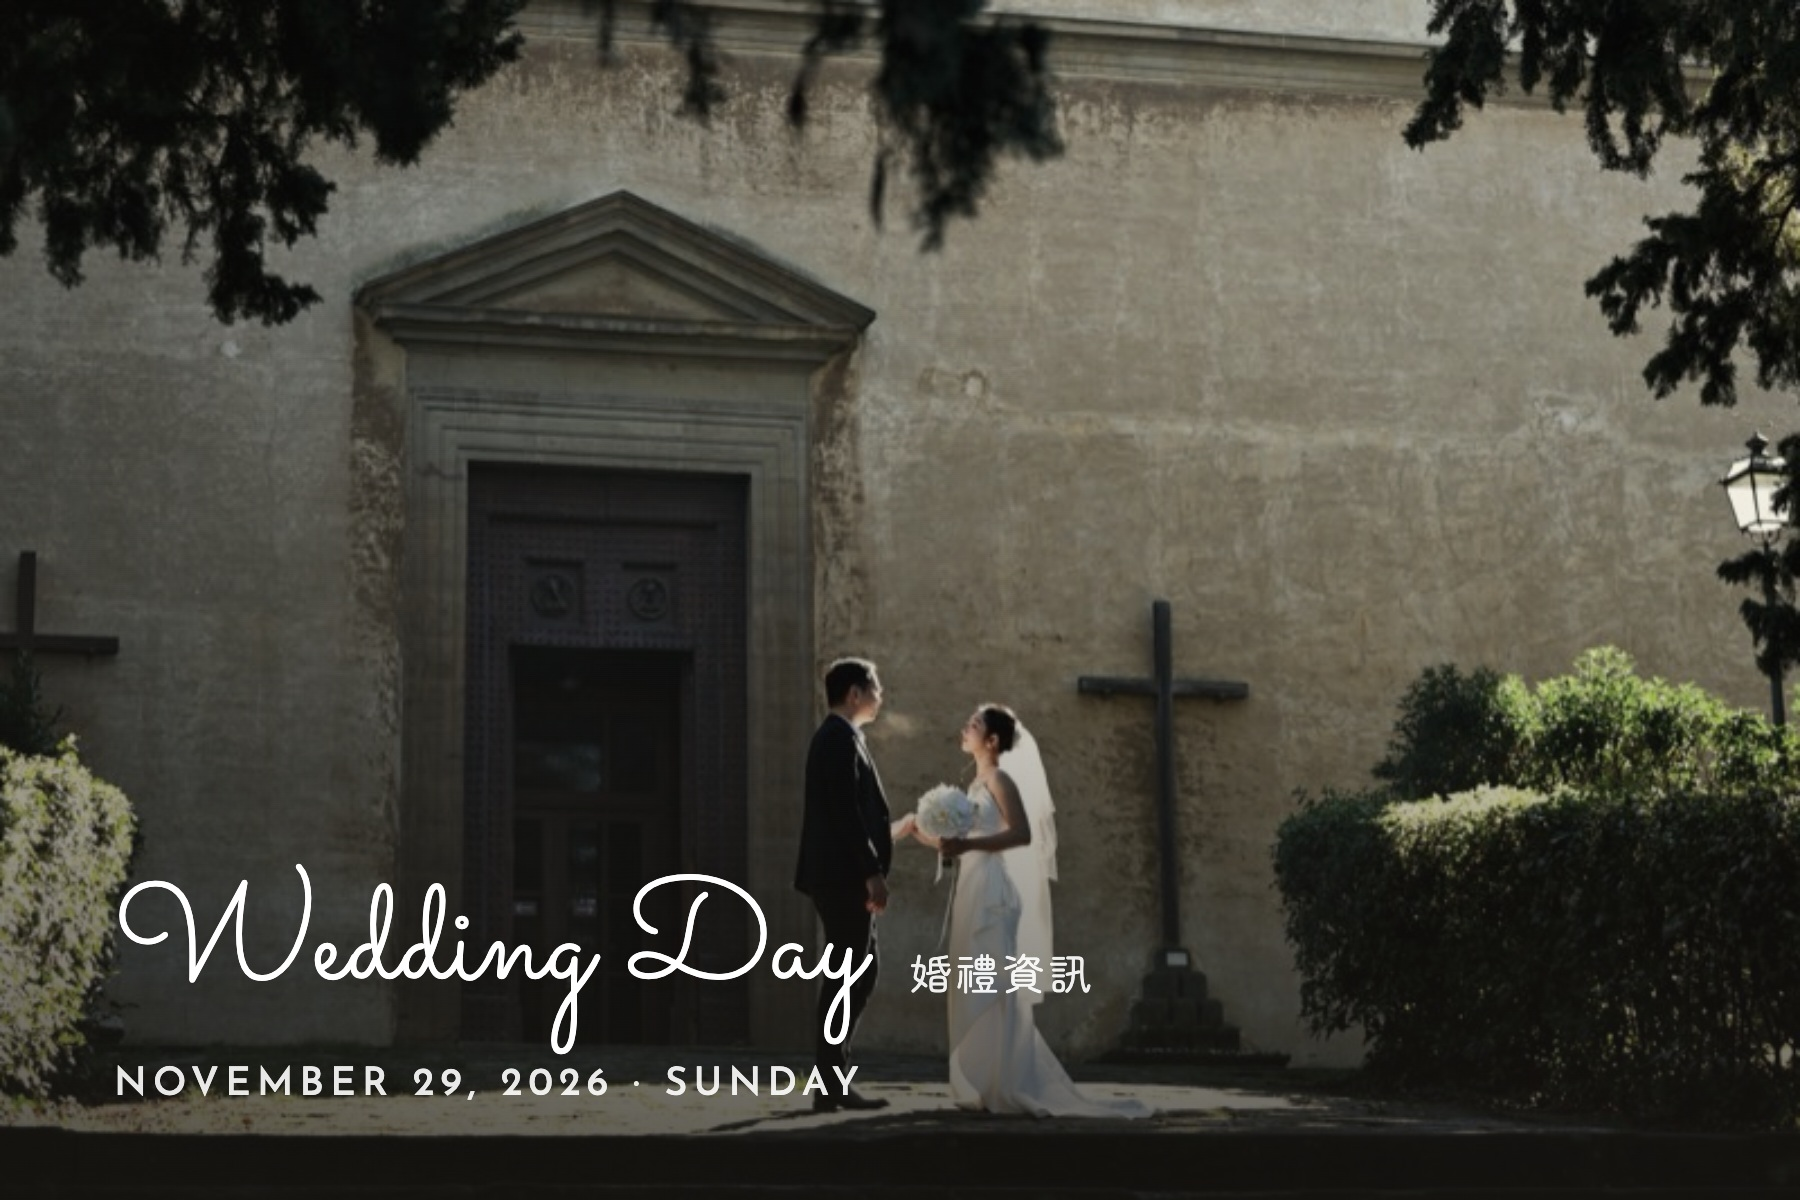
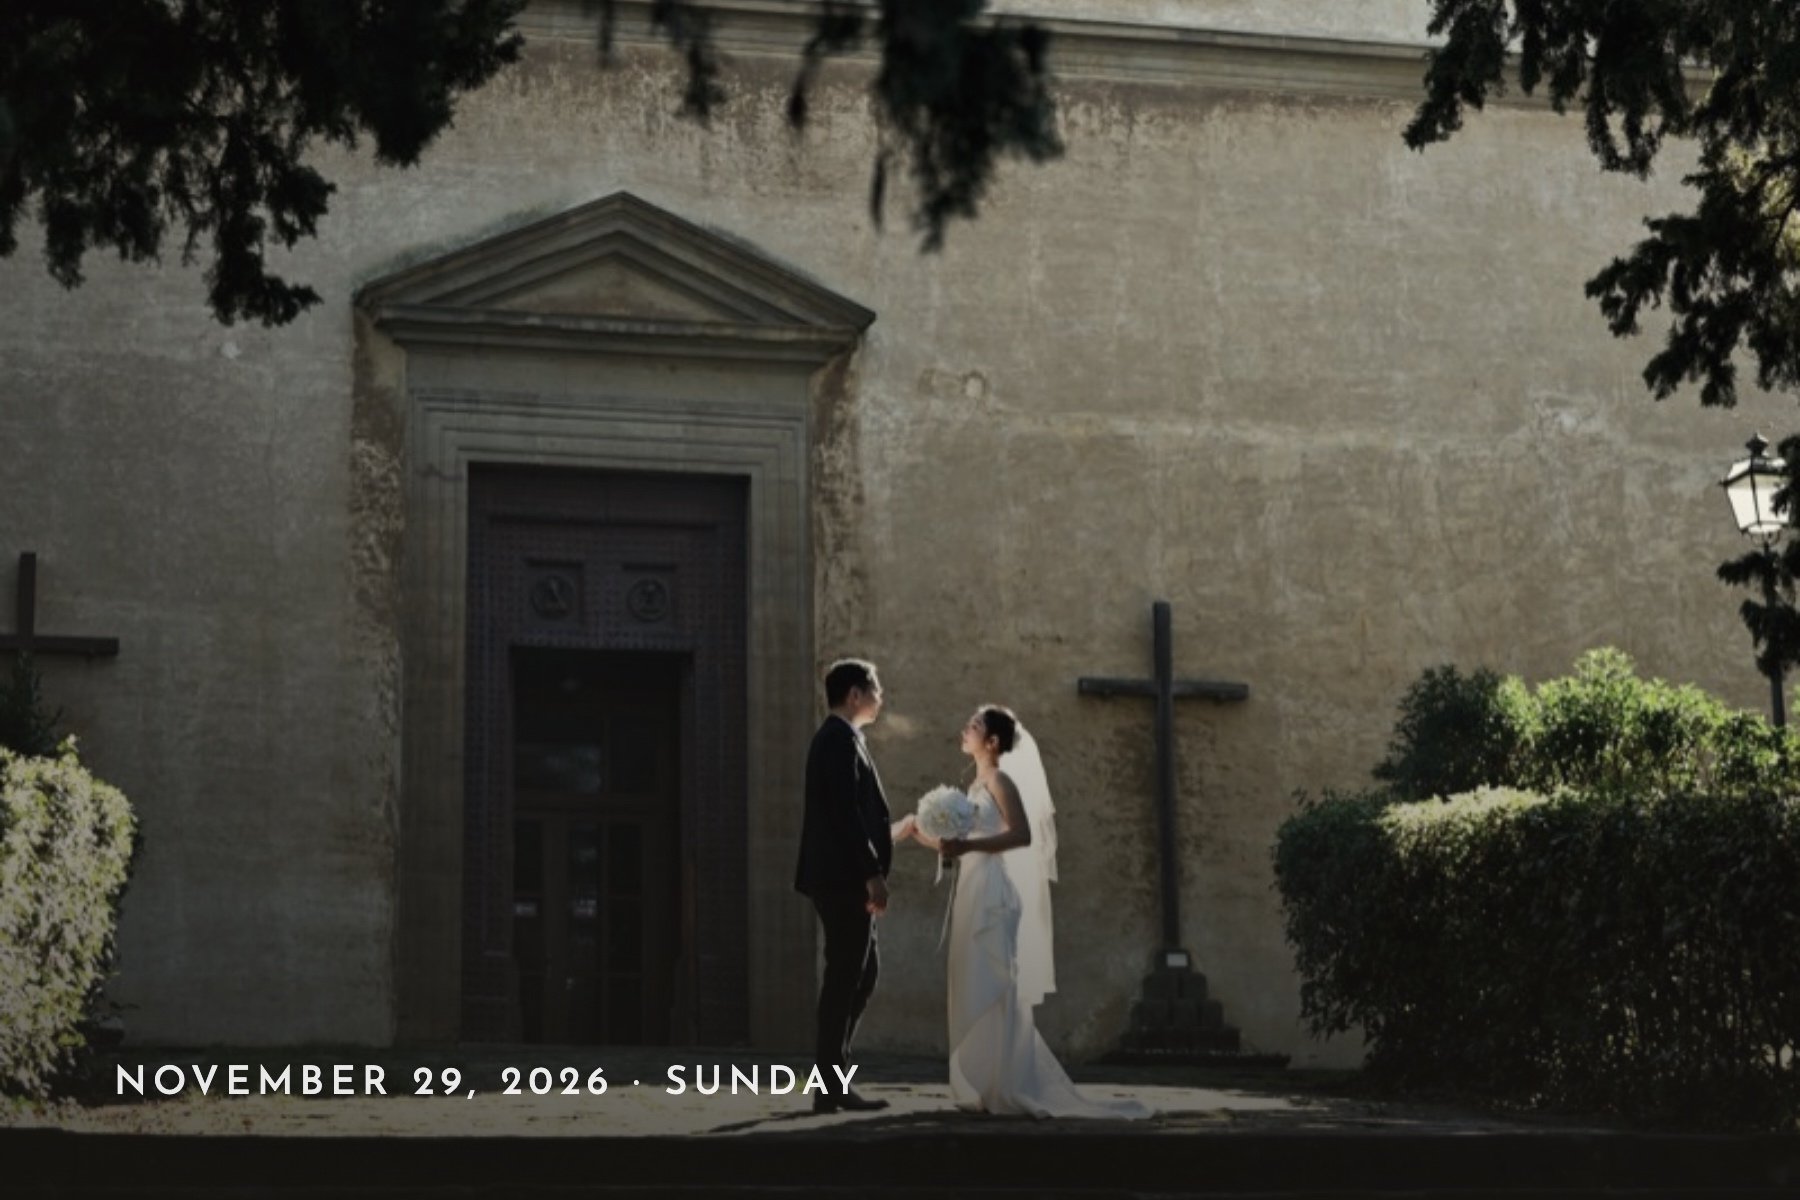
Refine wedding reminder email

Changed region(s): [[0.0622, 0.7092, 0.6222, 0.925], [0.9644, 0.4317, 0.9956, 0.4625], [0.9644, 0.37, 0.9956, 0.4008]]

diff --git a/output/email-reminder/gmail-reminder-preview.html b/output/email-reminder/gmail-reminder-preview.html
@@ -1,0 +1,1 @@
+<!doctype html><html lang="zh-Hant"><head><meta charset="UTF-8"><meta http-equiv="Content-Type" content="text/html; charset=UTF-8"><meta name="viewport" content="width=device-width,initial-scale=1.0"></head><body style="margin:0;padding:0;background:#f4f4f2;"><div style="display:none;max-height:0;overflow:hidden;opacity:0;color:transparent;">11 月 29 日婚禮桌次、時間與抵達提醒</div><div lang="zh-Hant" style="margin:0;padding:40px 16px;background:#f4f4f2;color:#37352f;font-family:Arial,'PingFang TC','Noto Sans TC',sans-serif;"><table role="presentation" width="100%" cellspacing="0" cellpadding="0" border="0" style="width:100%;border-collapse:collapse;"><tr><td align="center"><table role="presentation" width="100%" cellspacing="0" cellpadding="0" border="0" style="width:100%;max-width:520px;border:1px solid #e6e3dd;border-collapse:separate;background:#ffffff;"><tr><td style="padding:54px 48px 50px;"><div style="margin:0 0 8px;text-align:center;"><img src="./email-monogram.png" width="110" alt="M·D" style="display:inline-block;width:110px;max-width:100%;height:auto;border:0;"></div><div style="margin:0 0 6px;text-align:center;font-family:'Avenir Next',Avenir,'Helvetica Neue',Arial,sans-serif;font-size:13px;font-weight:600;line-height:1.5;letter-spacing:.14em;text-transform:uppercase;color:#8f7049;">Wedding Day Reminder</div><div style="margin:0 0 46px;text-align:center;font-family:'PingFang TC','Noto Sans TC',sans-serif;font-size:12px;font-weight:400;line-height:1.6;letter-spacing:.08em;color:#716a62;">婚禮行前提醒</div><p style="margin:0 0 24px;font-family:'Avenir Next',Avenir,'Helvetica Neue',Arial,sans-serif;font-size:16px;font-weight:400;line-height:1.8;color:#56514b;">Hi 林憲銘,</p><p style="margin:0 0 42px;font-family:'PingFang TC','Noto Sans TC',sans-serif;font-size:15px;font-weight:400;line-height:1.9;color:#37352f;">距離婚禮只剩 4 天了，<br>婚禮就在這週日，11 月 29 日。<br>很期待見到你，<br>和你一起分享這份喜悅 &#129293;</p><div style="margin:0 0 40px;padding:23px 16px 22px;border-top:1px solid #d8d2c8;border-bottom:1px solid #d8d2c8;text-align:center;"><div style="margin:0 0 8px;font-family:'Avenir Next',Avenir,'Helvetica Neue',Arial,sans-serif;font-size:11px;font-weight:600;line-height:1.5;letter-spacing:.18em;color:#8f7049;">YOUR TABLE</div><div style="font-family:'PingFang TC','Noto Sans TC',sans-serif;font-size:29px;font-weight:500;line-height:1.35;color:#37352f;">第 8 桌</div><div style="margin:7px 0 0;font-size:13px;line-height:1.6;color:#716a62;">2 位賓客</div></div><div style="margin:0 0 38px;"><img src="./02-wedding-day-photo-card.jpg" width="422" alt="Minchi and David on their wedding day" style="display:block;width:100%;max-width:422px;height:auto;border:0;"></div><div style="margin:0 0 42px;"><div style="margin:0 0 18px;font-family:'Avenir Next',Avenir,'Helvetica Neue',Arial,sans-serif;font-size:12px;font-weight:600;line-height:1.5;letter-spacing:.14em;color:#8f7049;">2026.11.29 · SUNDAY</div><table role="presentation" width="100%" cellspacing="0" cellpadding="0" border="0" style="width:100%;border-collapse:collapse;font-family:'PingFang TC','Noto Sans TC',sans-serif;color:#37352f;"><tr><td style="width:72px;padding:0 0 9px;font-size:14px;line-height:1.7;color:#716a62;">11:30</td><td style="padding:0 0 9px;font-size:14px;line-height:1.7;">賓客報到</td></tr><tr><td style="width:72px;padding:0 0 21px;font-size:14px;line-height:1.7;color:#716a62;">12:00</td><td style="padding:0 0 21px;font-size:14px;line-height:1.7;">午宴開始</td></tr></table><p style="margin:0 0 5px;font-family:'PingFang TC','Noto Sans TC',sans-serif;font-size:15px;font-weight:500;line-height:1.7;color:#37352f;">台北萬豪酒店 · 36F 寰宇廳</p><p style="margin:0 0 12px;font-family:'PingFang TC','Noto Sans TC',sans-serif;font-size:13px;font-weight:400;line-height:1.7;color:#716a62;">台北市中山區樂群二路 199 號</p><p style="margin:0;"><a href="https://maps.google.com/?q=Taipei+Marriott+Hotel" target="_blank" style="color:#8f7049;font-family:'Avenir Next',Avenir,'Helvetica Neue',Arial,sans-serif;font-size:14px;font-weight:400;line-height:1.6;text-decoration:none;">Open in Google Maps &#8599;</a></p></div><div style="margin:0 0 24px;padding-top:31px;border-top:1px solid #d8d2c8;"><div style="margin:0 0 13px;font-family:'Avenir Next',Avenir,'Helvetica Neue',Arial,sans-serif;font-size:11px;font-weight:600;line-height:1.5;letter-spacing:.16em;color:#8f7049;">ARRIVAL NOTE</div><p style="margin:0;font-family:'PingFang TC','Noto Sans TC',sans-serif;font-size:14px;font-weight:400;line-height:1.9;color:#56514b;">前往 36 樓的電梯位於<br>飯店正門 Concierge 左側，<br>請放心直走到底，<br>電梯真的在那裡。</p></div><div style="margin:0 0 31px;padding-top:29px;border-top:1px solid #d8d2c8;"><div style="margin:0 0 13px;font-family:'Avenir Next',Avenir,'Helvetica Neue',Arial,sans-serif;font-size:11px;font-weight:600;line-height:1.5;letter-spacing:.16em;color:#8f7049;">PARKING</div><p style="margin:0;font-family:'PingFang TC','Noto Sans TC',sans-serif;font-size:14px;font-weight:400;line-height:1.9;color:#56514b;">B2–B4 設有地下停車場。<br>接待桌備有 QR Code，<br>離場前掃描即可免費折抵。</p></div><p style="margin:0 0 24px;"><a href="https://minchianddavid.github.io/celebratewithus/" target="_blank" style="color:#8f7049;font-family:'Avenir Next',Avenir,'Helvetica Neue',Arial,sans-serif;font-size:14px;font-weight:400;line-height:1.6;letter-spacing:.01em;text-decoration:none;">Open the Invitation &#8599;</a></p><div style="width:84px;margin:0 0 16px;border-top:1px solid #d8d2c8;"></div><p style="margin:0 0 5px;text-align:left;"><img src="./email-signature.png" width="205" alt="Minchi &amp; David" style="display:block;width:205px;max-width:100%;height:auto;border:0;"></p><p style="margin:0 0 0 8px;text-align:left;"><img src="./email-signature-zh.png" width="89" alt="旻淇・大為" style="display:block;width:89px;max-width:100%;height:auto;border:0;"></p></td></tr></table></td></tr></table></div></body></html>

diff --git a/output/email-reminder/reminder-cards.html b/output/email-reminder/reminder-cards.html
@@ -48,6 +48,15 @@
             padding: 40px;
         }
 
+        body:has(.reminder-card:target) {
+            display: block;
+            padding: 0;
+        }
+
+        body:has(.reminder-card:target) .reminder-card:not(:target) {
+            display: none;
+        }
+
         .reminder-card {
             position: relative;
             width: 390px;
@@ -534,33 +543,8 @@
             left: 38px;
         }
 
-        .wedding-photo-heading {
-            display: flex;
-            align-items: flex-end;
-            gap: 15px;
-        }
-
-        .wedding-photo-title {
-            margin: 0;
-            color: #fff;
-            font-family: var(--script);
-            font-size: 48px;
-            font-weight: 400;
-            line-height: .85;
-            text-shadow: 0 1px 10px rgb(0 0 0 / 22%);
-        }
-
-        .wedding-photo-title-zh {
-            margin: 0 0 3px;
-            color: rgb(255 255 255 / 92%);
-            font-family: var(--soft-zh);
-            font-size: 14px;
-            font-weight: 500;
-            letter-spacing: .1em;
-        }
-
         .wedding-photo-date {
-            margin: 18px 0 0;
+            margin: 0;
             color: rgb(255 255 255 / 90%);
             font-family: var(--sans);
             font-size: 13px;
@@ -739,10 +723,6 @@
     <article class="reminder-card email-card wedding-photo-card" id="email-wedding-photo" aria-label="Wedding Day photo card for email">
         <img class="wedding-photo-background" src="../../assets/images/wedding-day-bg.jpeg" alt="Minchi and David standing in front of a church">
         <div class="wedding-photo-copy">
-            <div class="wedding-photo-heading">
-                <h1 class="wedding-photo-title">Wedding Day</h1>
-                <p class="wedding-photo-title-zh">婚禮資訊</p>
-            </div>
             <p class="wedding-photo-date">NOVEMBER 29, 2026 · SUNDAY</p>
         </div>
     </article>
